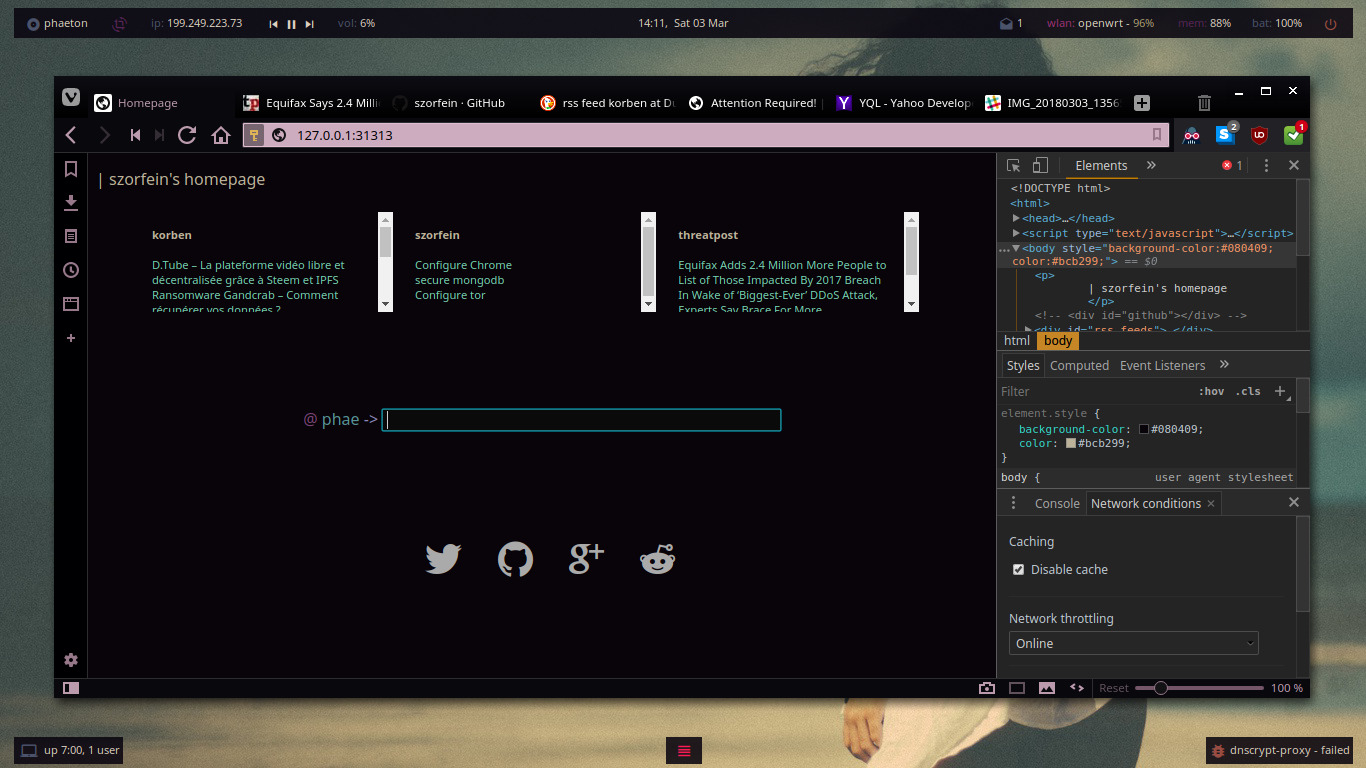
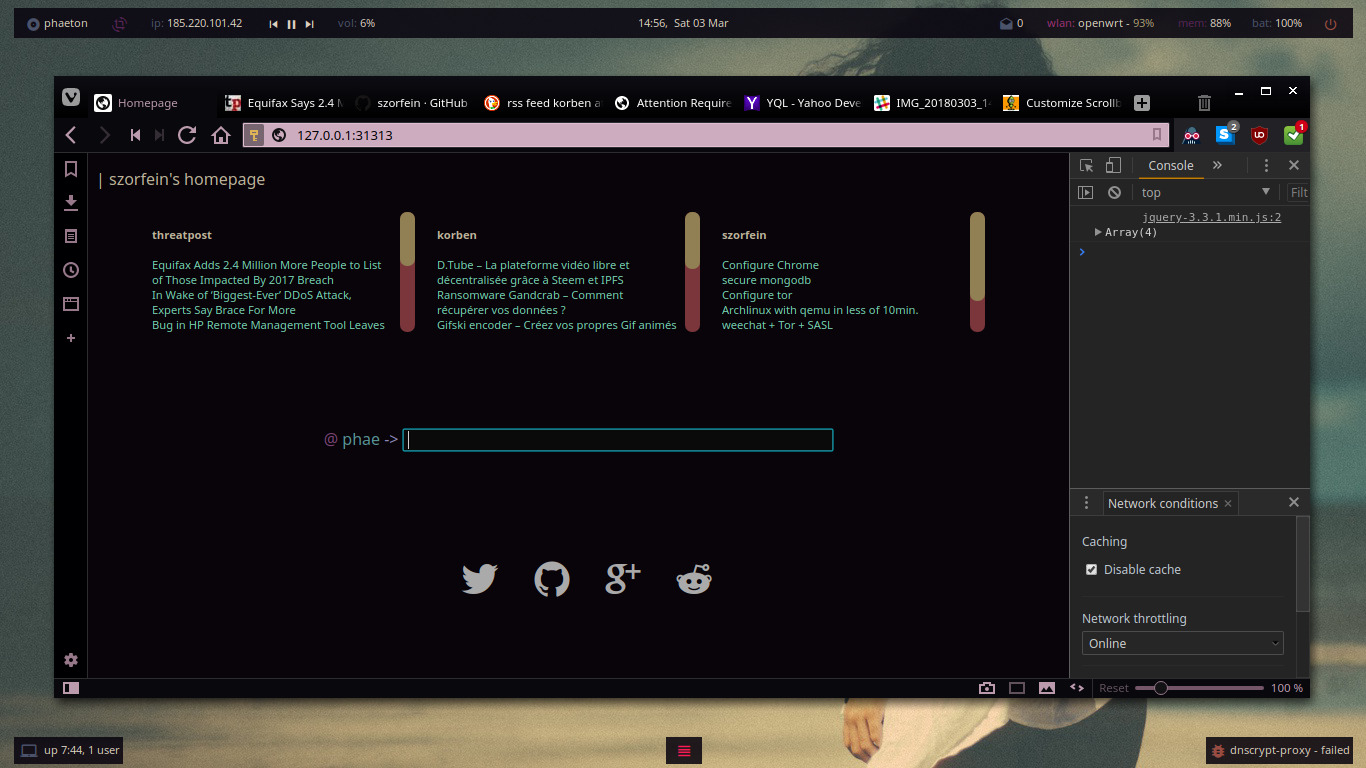
scrollbar css3

diff --git a/assets/css/app.css b/assets/css/app.css
@@ -52,7 +52,7 @@ form {
 #rss-feeds {
     margin-top: 2em;
     font-size: .7em;
-    height: 100px;
+    height: 120px;
     padding: 0 4em;
 }
 
@@ -60,8 +60,23 @@ form {
     display: inline-block;
     overflow: auto;
     width: 30%;
-    height: 100px;
+    height: 120px;
     margin: 0 1em;
+}
+
+#rss-feeds div::-webkit-scrollbar {
+    background-color:#7b363c;
+    border-radius:7px;
+}
+
+#rss-feeds div::-webkit-scrollbar-thumb {
+    background-color:#908053;
+    border-radius:7px;
+}
+
+#rss-feeds p {
+    text-overflow: ellipsis;
+    width: 97%;
 }
 
 #rss-feeds a {

diff --git a/assets/js/app.js b/assets/js/app.js
@@ -60,7 +60,7 @@ $(document).ready(function() {
                 html += '</div>'
                 $('#rss-feeds').append(html)
             }, "jsonp");
+            $('#rss-feeds').html(html)
         });
-        $('#rss-feeds').html(html)
     });
 });

diff --git a/README.md b/README.md
@@ -7,11 +7,11 @@ I will include some icons too. We'll see.
 
 # Configuration
 
-## Social 
+## Social link
 
 Edit `social-link.json`, you can find icon name to [ionicons.com](http://ionicons.com).
 
-## Rss 
+## Rss feed
 
 To edit `rss-feeds.json`, you have to generate url from [yahoo](https://developer.yahoo.com/yql/?dataTypeRadios=JSON)  
 
